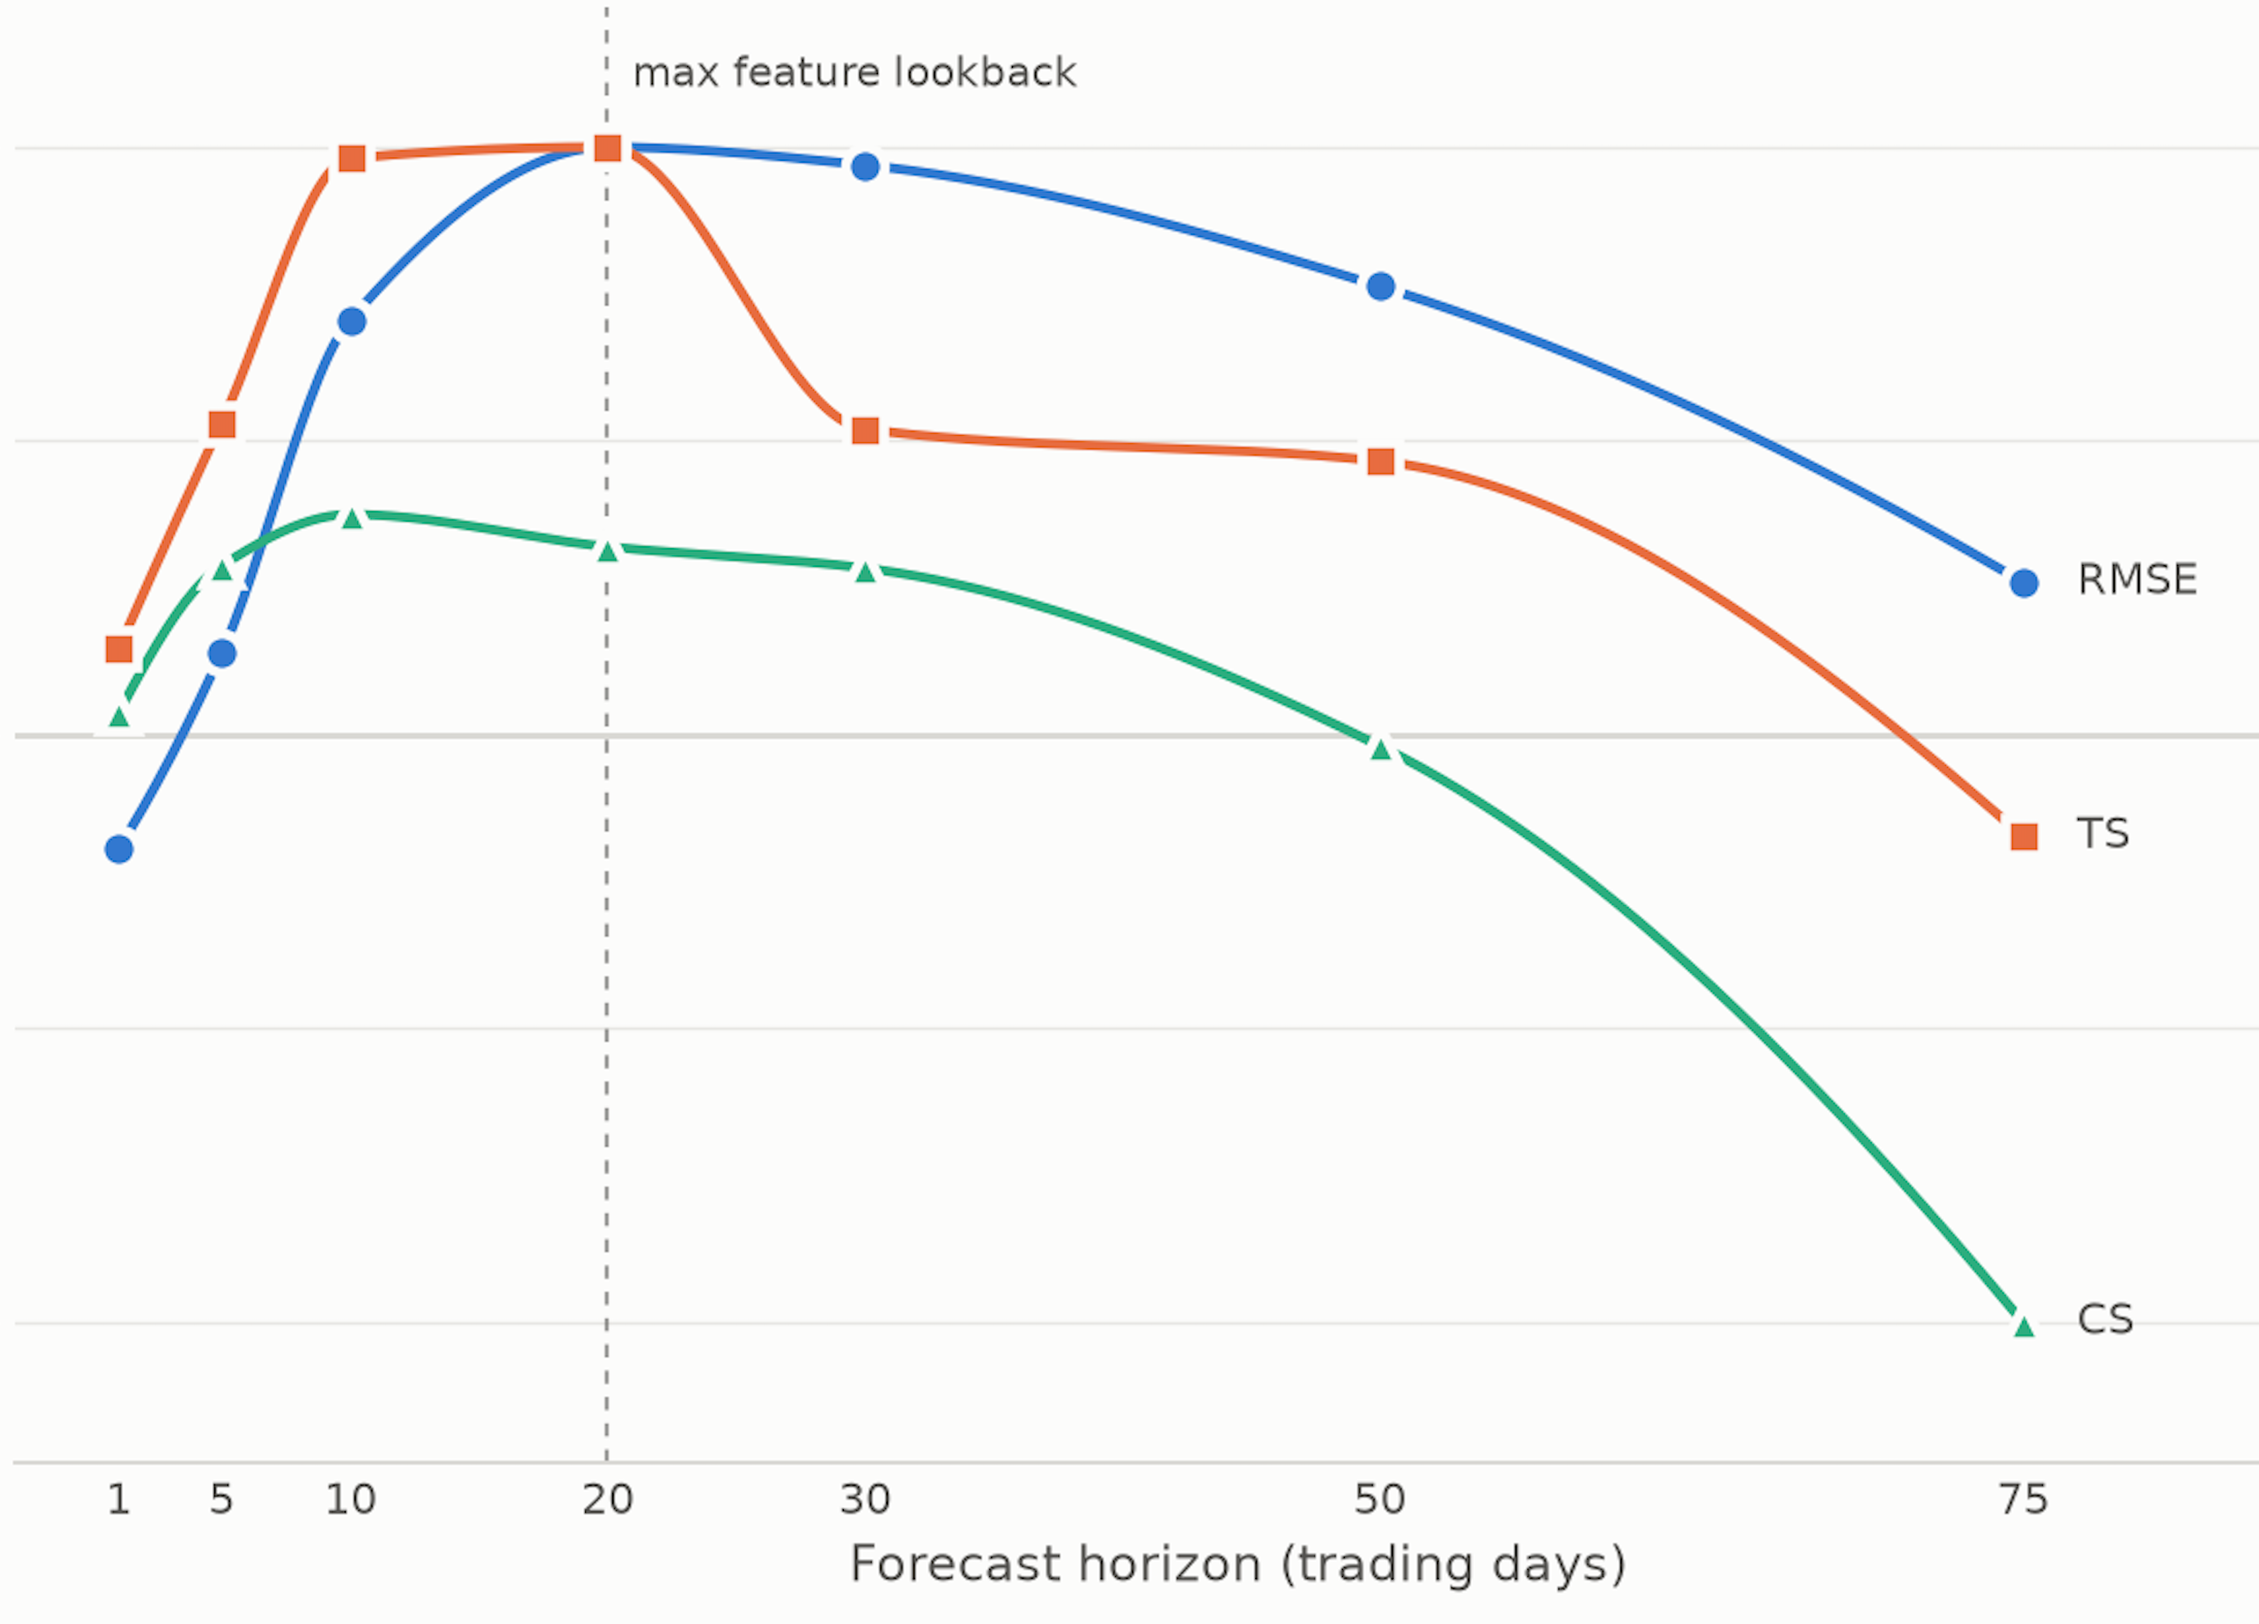
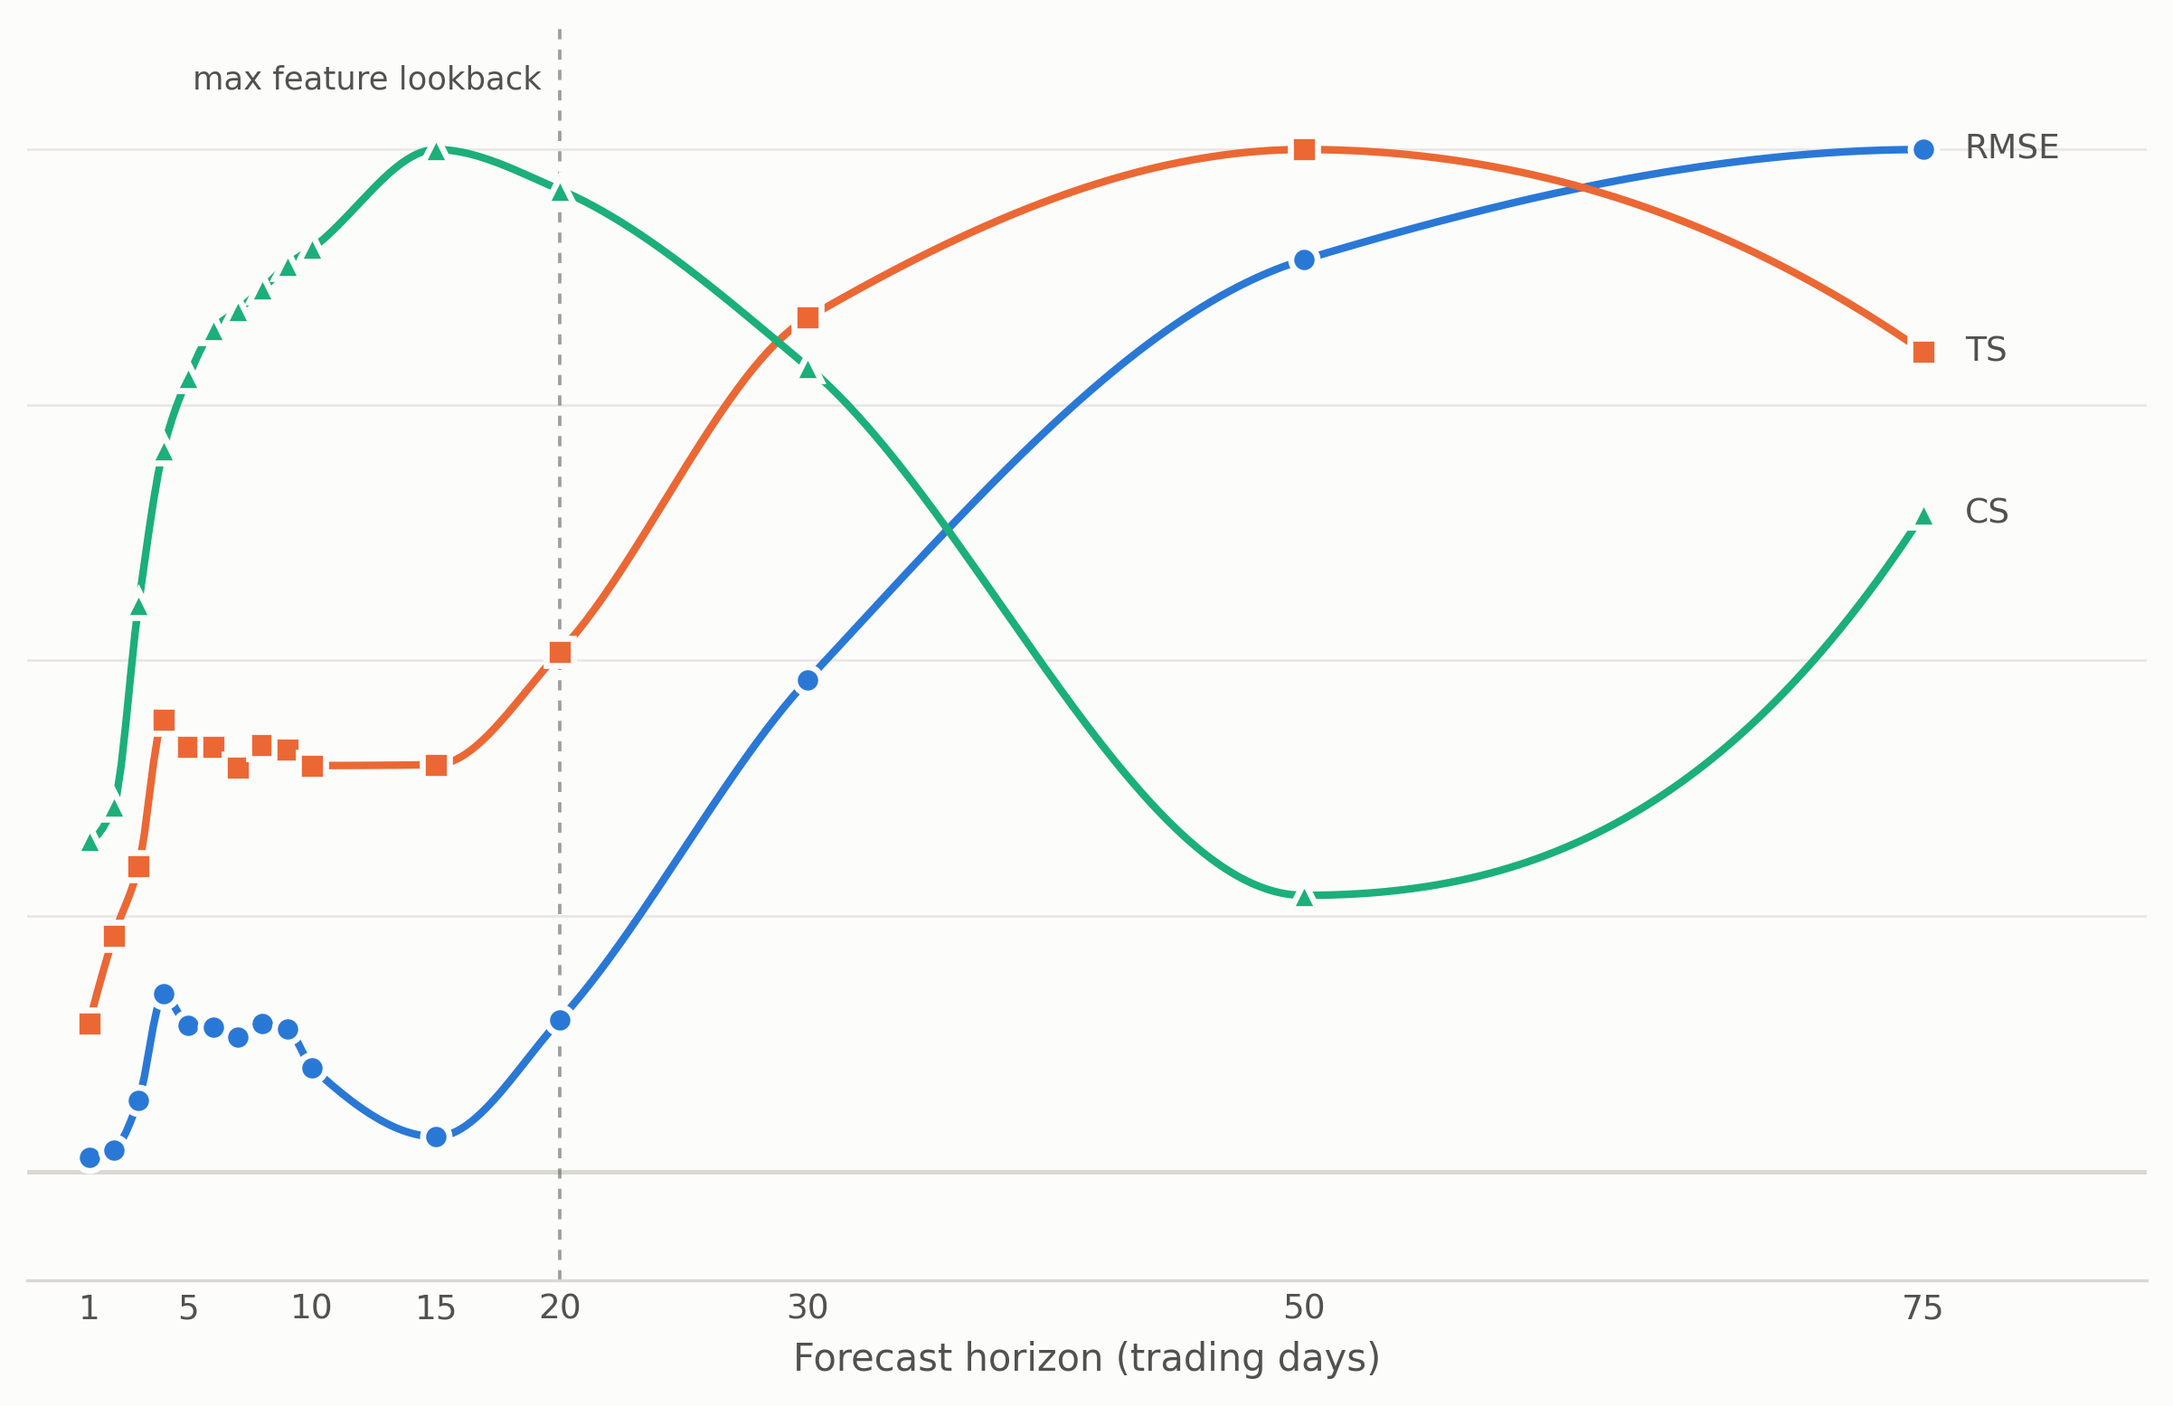
Fix Results to walk-forward test instead

diff --git a/model/utils/train_rules.c b/model/utils/train_rules.c
@@ -20,8 +20,8 @@ int horizon_check(int time, int horizon, int toggle) {
 // These 2 must be UNIX TIME in milliseconds
 // Data is from 2016 till present
 // https://www.epochconverter.com/
-double TRAINING_LOWER_BOUND_TIMESTAMP = 1704067201000; //2024-01-01
-double TRAINING_UPPER_BOUND_TIMESTAMP = 1735689601000; //2025-01-01
+double TRAINING_LOWER_BOUND_TIMESTAMP = 1735689601000; //2025-01-01
+double TRAINING_UPPER_BOUND_TIMESTAMP = 1790529381000; //today when i tested
 // From them calculate the indexes
 int TRAINING_LOWER_BOUND = 0;
 int TRAINING_UPPER_BOUND = 0;

diff --git a/model/utils/global.c b/model/utils/global.c
@@ -9,17 +9,17 @@ Companies* UNTRAINED_COMPANIES = NULL;
 
 int NR_FEATURES = 72;
 
-int NR_HORIZONS = 4;
-int HORIZONS[4] = {1, 5, 10, 20};
+int NR_HORIZONS = 15;
+int HORIZONS[15] = {1, 2, 3, 4, 5, 6, 7, 8, 9, 10, 15, 20, 30, 50, 75};
 
 int NR_COMPANIES = 0;
 int NR_THREADS = 12;
 
 // Only Finetuning overrides them
-double ALPHA = 0.001;
-double BETA = 0.2;
-double LAMBDA = 0.00001;
-int EPOCHS = 10;
+double ALPHA = 0.0001;
+double BETA = 0.5;
+double LAMBDA = 0.00000000001;
+int EPOCHS = 1;
 
 double CLIP = 10;
 

diff --git a/model/utils/time.c b/model/utils/time.c
@@ -20,5 +20,5 @@ int find_index(double t) {
             return i;
         }
     }
-    return -1;
+    return MARKET->count;
 }

diff --git a/README.md b/README.md
@@ -40,19 +40,31 @@ For a given ticker and date, each configured horizon returns:
 
 ## Results <br> RMSE + IC
 
-All metrics below are computed on companies and time windows never seen during training.
+### Walk-forward test
 
 <p align="center">
   <img src="./plots/model_results.png" alt="Model Results" width="600">
   <br>
-  <sub>Each series is devided by its own largest deviation.</sub>
+  <sub>Each series is divided by its own largest absolute value.</sub>
   <br>
   <sub>RMSE improvement relative to a 0 log return baseline</sub>
   <br>
   <sub><em>TS</em> = time-series IC &nbsp;|&nbsp; <em>CS</em> = cross-sectional IC</sub>
 </p>
 
-*Observations*: features look back at most 20 days, and the results follow that window. All three metrics peak around 10 to 20 days. Close future is mostly noise and beyond a month, that same history carries too little relevant information. In between is where it fits.
+The model is trained only on data from 2016 through 2024 on ~900 companies, then scored from 2025 till today on ~100 companies that were held-out during training.
+
+Therefore, all metrics are computed on companies and time windows never seen during training with no lookahead, simulating real live forecasting conditions.
+
+*Note*: Each horizon is an independent model with its own weights, they only share the same features for a given company at a given time.
+
+*Observations*: 
+- Features look back at most 20 days, and the cross-sectional IC results, that ignore the market part of the forecast, follow that window exactly. Close future is mostly noise and beyond 30 days, that same history carries too little relevant information, in between is where it fits.
+- All three metrics are positive at every horizon. Cross-sectional IC constantly climbs and peaks at day 15.
+- Time-series IC and RMSE relative gain continue increasing on the far future because both include the market part of the forecast.
+- The period of interest therefore remains 1-20 days, when the model actually holds stock specific prediction power.
+
+<br>
 
 *Notations*: $\hat r_{i,t}$ is the predicted log return for company $i$ at day $t$, and $r_{i,t}=\ln\big(C_{i,t+h}/C_{i,t}\big)$ is the realized one.
 
@@ -88,19 +100,29 @@ $$
 
 | Horizon |    RMSE |      TS |      CS |
 | ------: | ------: | ------: | ------: |
-|   1 day | -0.179% | +0.0227 | +0.0024 |
-|  5 days | +0.129% | +0.0825 | +0.0188 |
-| 10 days | +0.654% | +0.1522 | +0.0245 |
-| 20 days | +0.925% | +0.1553 | +0.0209 |
-| 30 days | +0.897% | +0.0807 | +0.0185 |
-| 50 days | +0.706% | +0.0723 | -0.0013 |
-| 75 days | +0.240% | -0.0269 | -0.0654 |
+|   1 day | +0.019% | +0.0265 | +0.0123 |
+|  2 days | +0.030% | +0.0422 | +0.0135 |
+|  3 days | +0.098% | +0.0546 | +0.0210 |
+|  4 days | +0.243% | +0.0809 | +0.0267 |
+|  5 days | +0.201% | +0.0761 | +0.0294 |
+|  6 days | +0.198% | +0.0762 | +0.0311 |
+|  7 days | +0.185% | +0.0723 | +0.0318 |
+|  8 days | +0.203% | +0.0763 | +0.0326 |
+|  9 days | +0.196% | +0.0756 | +0.0335 |
+| 10 days | +0.142% | +0.0727 | +0.0341 |
+| 15 days | +0.048% | +0.0729 | +0.0378 |
+| 20 days | +0.208% | +0.0932 | +0.0363 |
+| 30 days | +0.675% | +0.1530 | +0.0297 |
+| 50 days | +1.251% | +0.1831 | +0.0102 |
+| 75 days | +1.402% | +0.1469 | +0.0243 |
 
-*Positive values indicate lower RMSE than the baseline.*
+*Positive RMSE values indicate lower RMSE than the baseline.*
 
-*Observations*:
-- Regarding RMSE, all effects are small in absolute terms, but my baseline is already very hard to beat at short horizons.
-- TS runs several times larger than CS at every horizon. TS keeps the market-wide component, since predictions and realized returns trend together across the whole universe when the market moves, while IC removes it by default. The gap between the two columns is exactly that market component.
+***Observations** for the time window of interest 1-20 days*:
+- All effects are small in absolute terms, but my baseline is already very hard to beat.
+- An earlier run, trained on 2016–2023 (included) and scored from 2024 til present, showed a noticeably weaker signal (CS IC peaked at +0.014 at 4 days and faded by 10 days). Either the model benefits that much from training on the most recent year, or 2024 was an unusually hard year for it.
+- RMSE improvement peaks at 4 days (+0.243%) and stays near +0.2% until day 9. Cross-sectional IC is positive at every horizon.
+- The time-series IC runs several times larger than the cross-sectional IC at every horizon. The time-series keeps the market component, while cross-sectional IC removes it by default. The gap between the two is exactly that market component.
 
 
 ## Features & Mathematics
@@ -236,7 +258,7 @@ Even though the features were chosen to be around the same scale, without center
 
 ### VS
 
-Scaled & centered features' IQR
+Scaled & centered (**NOT CLIPPED**) features' IQR
 
 ![Weight IQR](plots/iqr_indexed.png)
 
